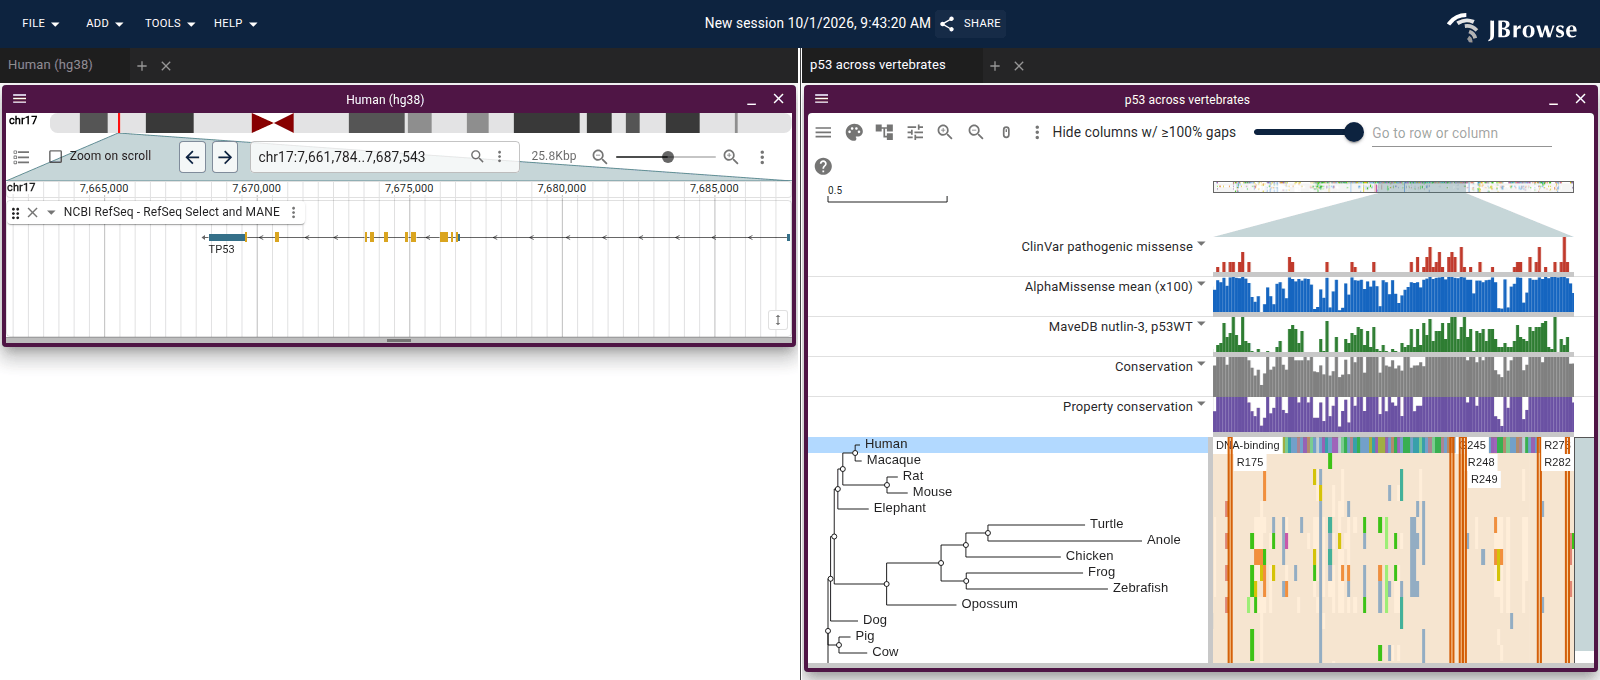
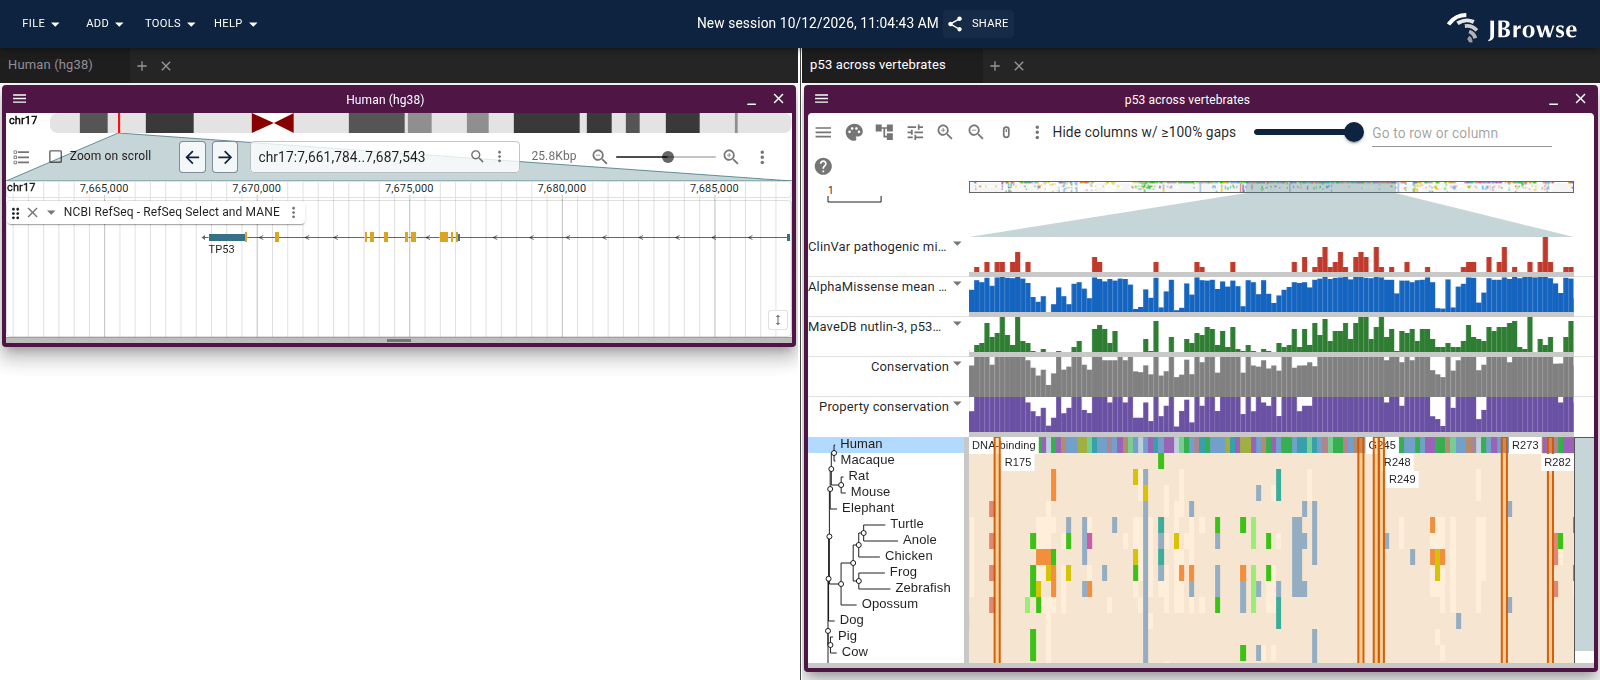
5.2.0

Changed region(s): [[0.5, 0.2471, 1.0, 0.9882], [0.4375, 0.0, 0.625, 0.0618], [0.5, 0.3397, 0.5938, 0.3706]]

diff --git a/src/version.ts b/src/version.ts
@@ -1,1 +1,1 @@
-export const version = '5.1.1'
+export const version = '5.2.0'

diff --git a/CHANGELOG.md b/CHANGELOG.md
@@ -1,3 +1,11 @@
+## [5.2.0](https://github.com/GMOD/jbrowse-plugin-msaview/compare/v5.1.1...v5.2.0) (2026-10-12)
+
+### Other Changes
+
+- Bump react-msaview and msa-parsers to 9.0.0 ([4ff4d71](https://github.com/GMOD/jbrowse-plugin-msaview/commit/4ff4d7184315cbba0be8e1c2ea037f39821bc31c))
+- Let the preloaded MSA panel fit its tree area to the labels ([6d377c9](https://github.com/GMOD/jbrowse-plugin-msaview/commit/6d377c91268aa2fc838c7865fa39270b818ad2e1))
+- Refresh the launched-view screenshot for the fitted tree area ([534dc4a](https://github.com/GMOD/jbrowse-plugin-msaview/commit/534dc4a34ce72c831c38405a06a9bb6d0c4b84c3))
+
 ## [5.1.1](https://github.com/GMOD/jbrowse-plugin-msaview/compare/v5.1.0...v5.1.1) (2026-10-08)
 
 ### Other Changes
